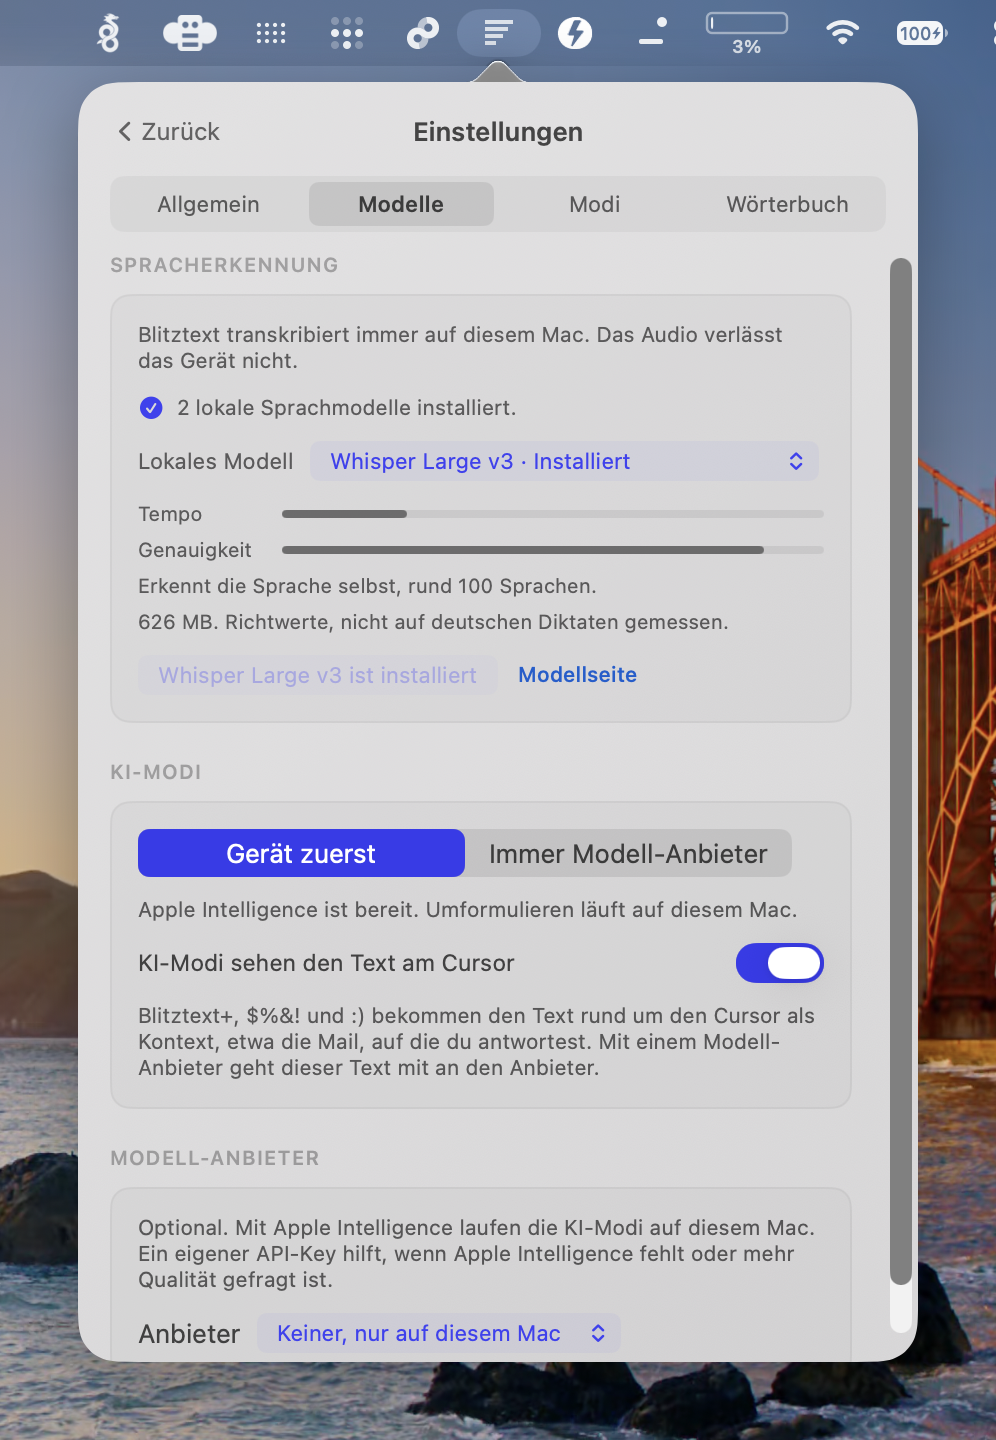
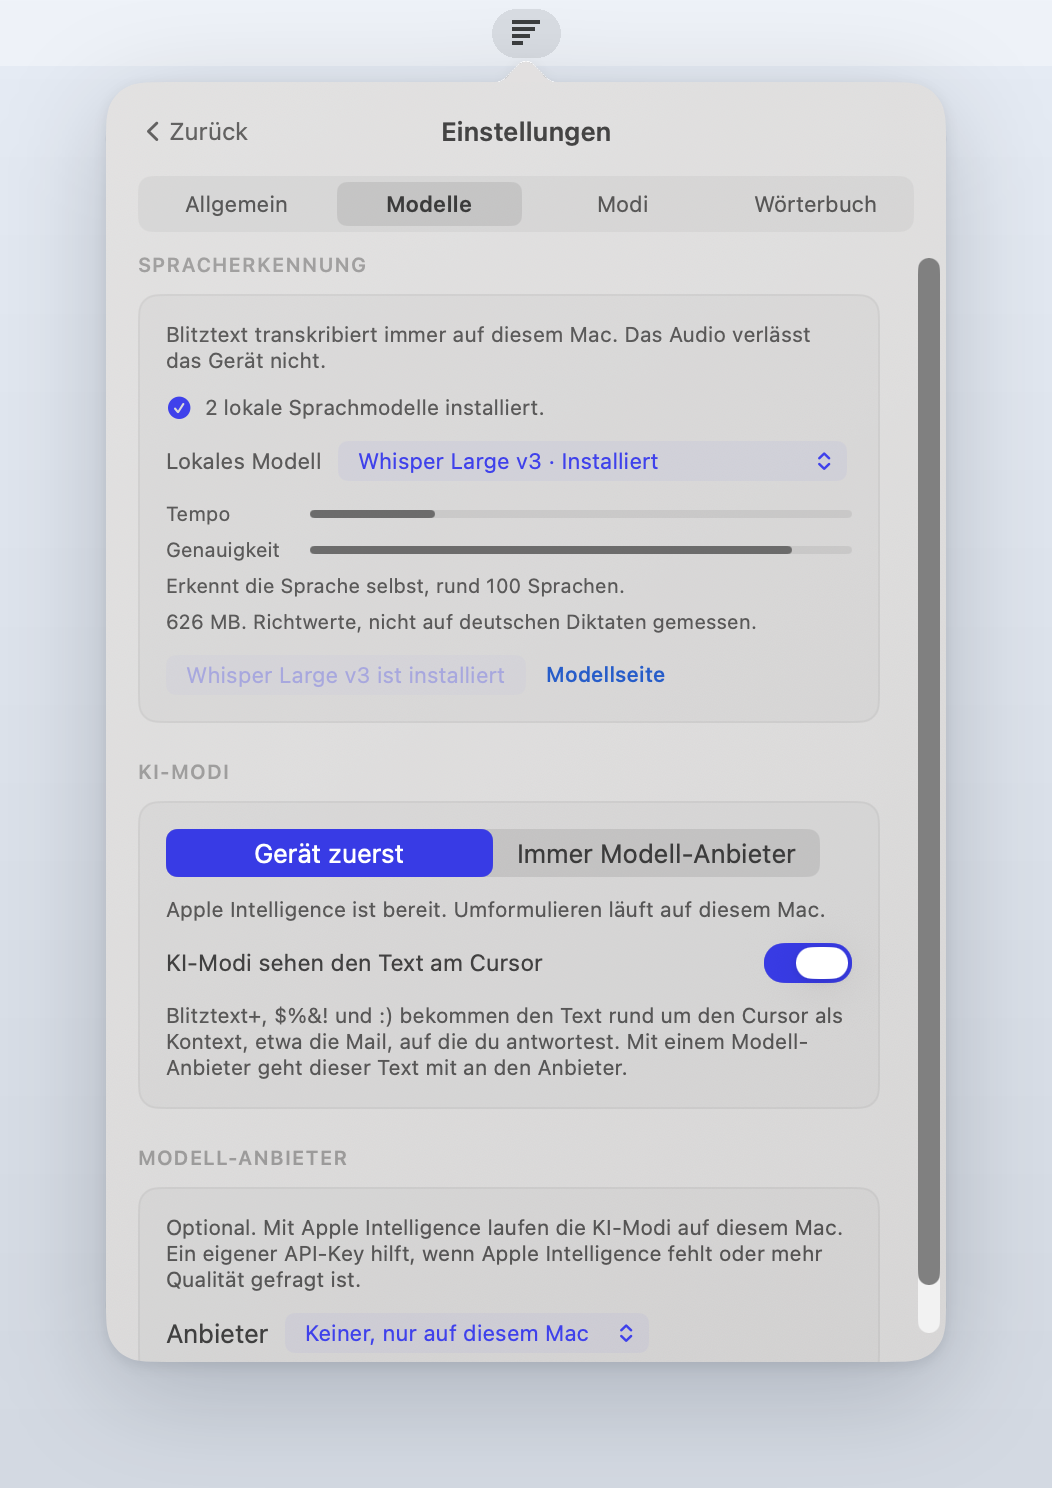
Neutral screenshots, no names of other apps
- Screenshots on a plain background with a clean menu bar, full Retina resolution
- Acknowledgments, code comments and notices no longer name other apps; the MIT
  copyright and permission notices for adapted code stay, as the license requires

Claude-Session: https://claude.ai/code/session_01SVtM74YHGzCBwWJF2Ms7gu

diff --git a/BlitztextShared/Transcription/HallucinationFilter.swift b/BlitztextShared/Transcription/HallucinationFilter.swift
@@ -3,10 +3,9 @@ import Foundation
 /// Drops text Whisper invents: subtitle credits from its training data ("Untertitel im
 /// Auftrag des ZDF, 2021") and polite closings on silence ("Thank you.", "Vielen Dank.").
 ///
-/// The idea of a phrase list comes from Amical (MIT, https://github.com/amicalhq/amical,
-/// `pipeline/utils/segment-filter.ts`). Amical keys it to Whisper's no-speech
-/// probability, which WhisperKit reports as 0 for these cases, so Blitztext checks how
-/// much of the recording is loud enough to be speech instead.
+/// Whisper's no-speech probability would be the natural gate, but WhisperKit reports it
+/// as 0 for these cases, so Blitztext checks how much of the recording is loud enough to
+/// be speech instead.
 enum HallucinationFilter {
     /// Credits and sign-offs that are never meant as dictation. Normalized, without years.
     static let credits: Set<String> = [

diff --git a/BlitztextMac/Services/ClipboardPasteService.swift b/BlitztextMac/Services/ClipboardPasteService.swift
@@ -5,8 +5,8 @@ private let pasteLogger = Logger(subsystem: "app.blitztext.mac", category: "Past
 
 /// Pastes text via the clipboard and afterwards restores what the user had copied before.
 ///
-/// Approach ported from Handy's "reliable paste" (MIT, https://github.com/cjpais/handy, `paste_tx`):
-/// the transcript is published as a *promise* (`declareTypes(_:owner:)`). AppKit calls
+/// Adapted from MIT-licensed code (see THIRD_PARTY_NOTICES.md): the transcript is
+/// published as a *promise* (`declareTypes(_:owner:)`). AppKit calls
 /// `pasteboard(_:provideDataForType:)` when an app actually reads it, which is our receipt.
 /// The previous clipboard is restored only after that receipt plus a short quiet period,
 /// and only if nobody else changed the clipboard in the meantime. The failure mode is

diff --git a/BlitztextMac/Services/InsertionFitter.swift b/BlitztextMac/Services/InsertionFitter.swift
@@ -4,8 +4,7 @@ import Foundation
 /// capital letter at a sentence start, a lowercase function word mid-sentence and no
 /// period where the sentence goes on. Only the edges of the dictation change.
 ///
-/// Idea from Amical (MIT, https://github.com/amicalhq/amical), which leaves this to the
-/// language model. Here it is plain rules, so it also works for word-for-word dictation.
+/// Plain rules instead of the language model, so it also works for word-for-word dictation.
 enum InsertionFitter {
     static func fit(_ text: String, before: String, after: String) -> String {
         var result = text.trimmingCharacters(in: .whitespacesAndNewlines)

diff --git a/BlitztextMac/Services/SystemAudioMuter.swift b/BlitztextMac/Services/SystemAudioMuter.swift
@@ -5,9 +5,8 @@ import CoreAudio
 /// not run on over the dictation, and restores it exactly as it was.
 ///
 /// Pausing would be nicer but is not safe: since macOS 15.4 apps cannot see what is
-/// playing, so "resume" afterwards could start something that was paused. Muting follows
-/// Amical (MIT, https://github.com/amicalhq/amical): the mute switch, or volume 0 when a
-/// device has none.
+/// playing, so "resume" afterwards could start something that was paused. Muting uses
+/// the mute switch, or volume 0 when a device has none (MIT notice in THIRD_PARTY_NOTICES.md).
 @MainActor
 final class SystemAudioMuter {
     private enum Restore {

diff --git a/BlitztextMac/Services/FocusedFieldReader.swift b/BlitztextMac/Services/FocusedFieldReader.swift
@@ -119,7 +119,7 @@ enum FocusedFieldReader {
 
     private static func enableWebAccessibility(_ app: AXUIElement, bundleID: String?) {
         guard let bundleID, browsersNeedingManualAccessibility.contains(bundleID) else { return }
-        // Not "AXEnhancedUserInterface": Amical found it stalls Chromium on heavy pages.
+        // Not "AXEnhancedUserInterface": it can stall Chromium on heavy pages.
         AXUIElementSetAttributeValue(app, "AXManualAccessibility" as CFString, kCFBooleanTrue)
     }
 

diff --git a/BlitztextMac/Services/TranscriptPostProcessor.swift b/BlitztextMac/Services/TranscriptPostProcessor.swift
@@ -2,7 +2,7 @@ import Foundation
 
 /// Local cleanup applied to raw transcripts before they are pasted or sent to the LLM.
 ///
-/// Ported from Handy (MIT, https://github.com/cjpais/handy, `audio_toolkit/text.rs`):
+/// Adapted from MIT-licensed code (see THIRD_PARTY_NOTICES.md):
 /// - fuzzy correction of custom terms (Levenshtein + Soundex + n-grams, e.g. "Charge B" -> "ChargeBee")
 /// - removal of filler words ("äh", "ähm", "uh", ...)
 /// - collapsing of stutters ("ich ich ich ich" -> "ich")

diff --git a/BlitztextMac/Services/LocalTranscriptionService.swift b/BlitztextMac/Services/LocalTranscriptionService.swift
@@ -77,8 +77,7 @@ struct LocalTranscriptionModel: Identifiable, Hashable {
 }
 
 /// Relative speed and accuracy (0...1) to compare local models at a glance.
-/// Values follow Handy's model catalog (github.com/cjpais/handy, `catalog.json`) and are
-/// a rough guide, not a Blitztext benchmark on German audio.
+/// The values are a rough guide, not a Blitztext benchmark on German audio.
 struct LocalModelRating: Equatable {
     let speed: Double
     let accuracy: Double

diff --git a/THIRD_PARTY_NOTICES.md b/THIRD_PARTY_NOTICES.md
@@ -1,11 +1,11 @@
 # Third-Party Notices
 
-## Handy
+## Transcript cleanup and clipboard restore
 
-Parts of the macOS app are adapted from Handy (https://github.com/cjpais/handy):
+Parts of the macOS app are adapted from code under the MIT License:
 
-- `BlitztextMac/Services/TranscriptPostProcessor.swift`: custom term correction and filler word removal, ported from `src-tauri/src/audio_toolkit/text.rs`
-- `BlitztextMac/Services/ClipboardPasteService.swift`: receipt-based clipboard restore, adapted from `src-tauri/src/paste_tx`
+- `BlitztextMac/Services/TranscriptPostProcessor.swift`: custom term correction and filler word removal
+- `BlitztextMac/Services/ClipboardPasteService.swift`: receipt-based clipboard restore
 
 ```text
 MIT License
@@ -31,14 +31,12 @@ OUT OF OR IN CONNECTION WITH THE SOFTWARE OR THE USE OR OTHER DEALINGS IN THE
 SOFTWARE.
 ```
 
-## Amical
+## Sound muting and browser address
 
-Parts of both apps follow Amical (https://github.com/amicalhq/amical):
+Parts of the macOS app follow code under the MIT License:
 
-- `BlitztextShared/Transcription/HallucinationFilter.swift`: the idea of a list of phrases Whisper invents (`pipeline/utils/segment-filter.ts`)
-- `BlitztextMac/Services/FocusedFieldReader.swift`: reading the browser address through the Accessibility API with `AXManualAccessibility` (`swift-helper`)
-- `BlitztextMac/Services/SystemAudioMuter.swift`: muting the sound output while recording, with volume 0 as fallback (`swift-helper`)
-- The idea of fitting a dictation to the text around the cursor (`BlitztextMac/Services/InsertionFitter.swift`) and of telling the language model that the transcript is not a request (`BlitztextShared/AI/ModePrompts.swift`)
+- `BlitztextMac/Services/SystemAudioMuter.swift`: muting the sound output while recording, with volume 0 as fallback
+- `BlitztextMac/Services/FocusedFieldReader.swift`: reading the browser address through the Accessibility API with `AXManualAccessibility`
 
 ```text
 MIT License

diff --git a/README.md b/README.md
@@ -152,8 +152,6 @@ Independent projects built on the Blitztext idea. They are not maintained or rev
 
 ## Acknowledgments
 
-- **[Handy](https://github.com/cjpais/handy)** for the transcript post-processing and the clipboard restore Blitztext builds on
-- **[Amical](https://github.com/amicalhq/amical)** for ideas on cursor context, website modes and invented Whisper text
 - **[FluidAudio](https://github.com/FluidInference/FluidAudio)** and **NVIDIA** for Parakeet on Core ML
 - **[WhisperKit](https://github.com/argmaxinc/argmax-oss-swift)** by Argmax and **OpenAI** for Whisper
 - **[Sparkle](https://sparkle-project.org)** for updates
